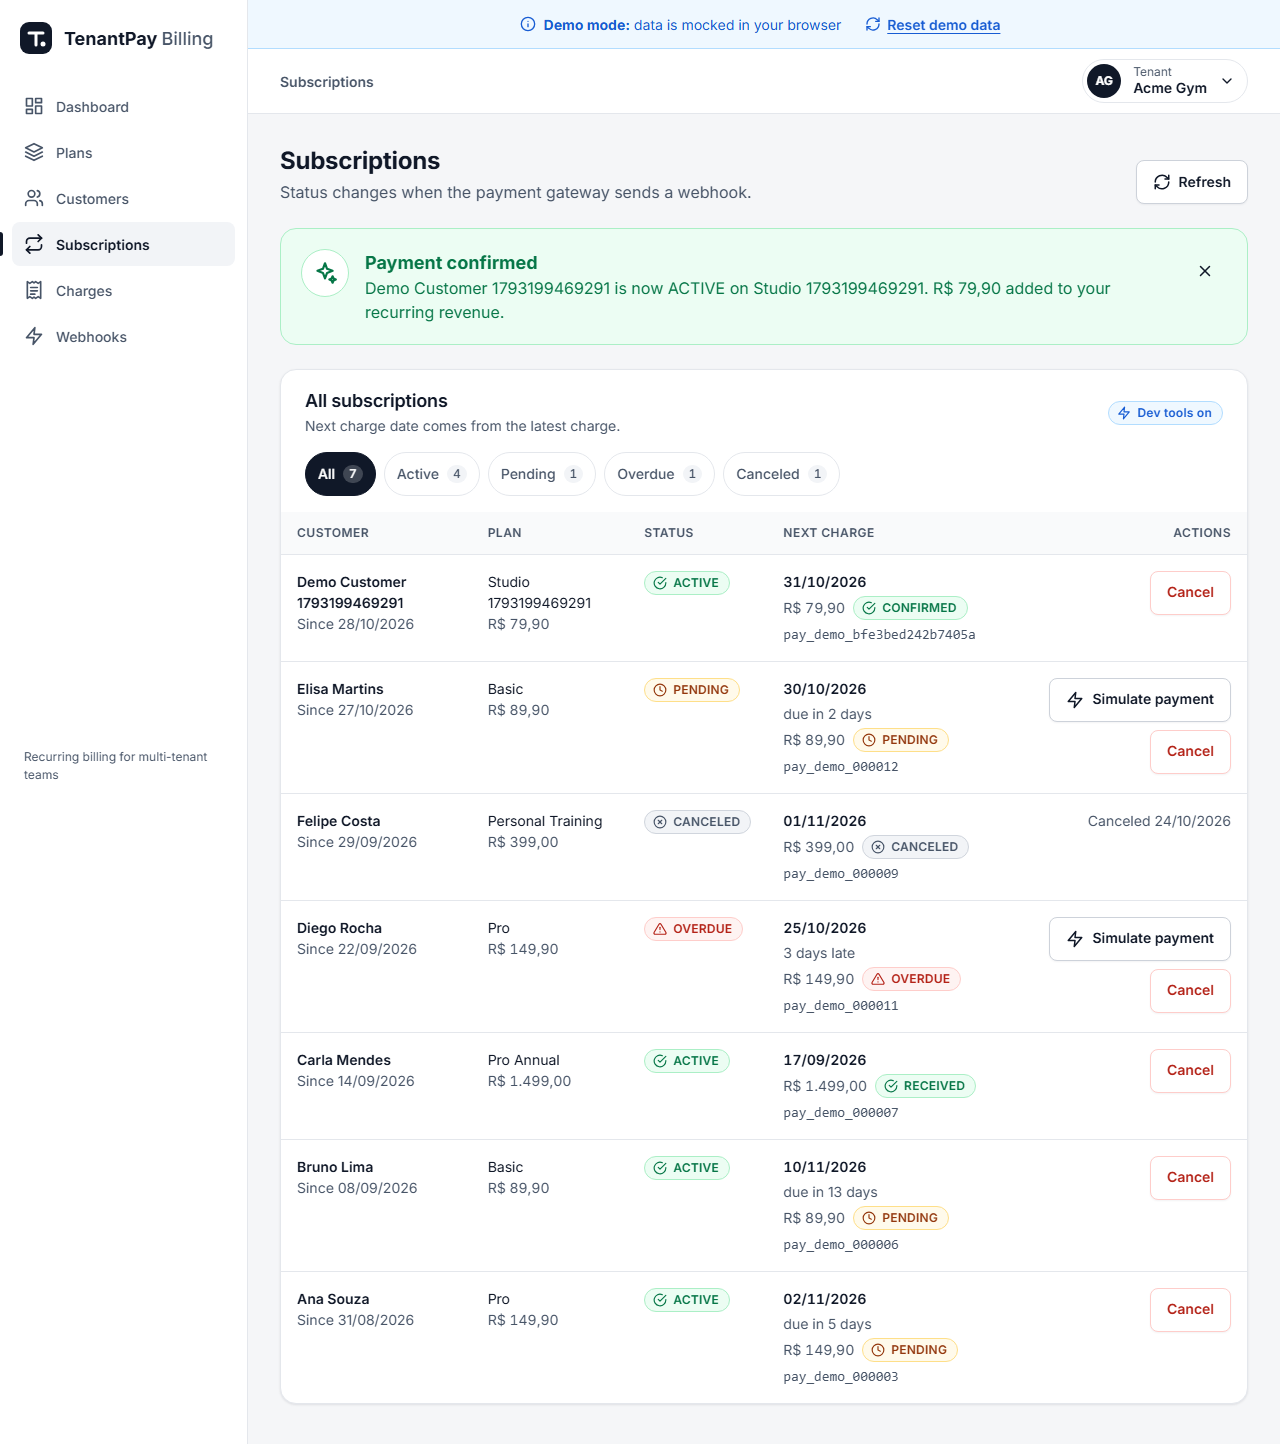
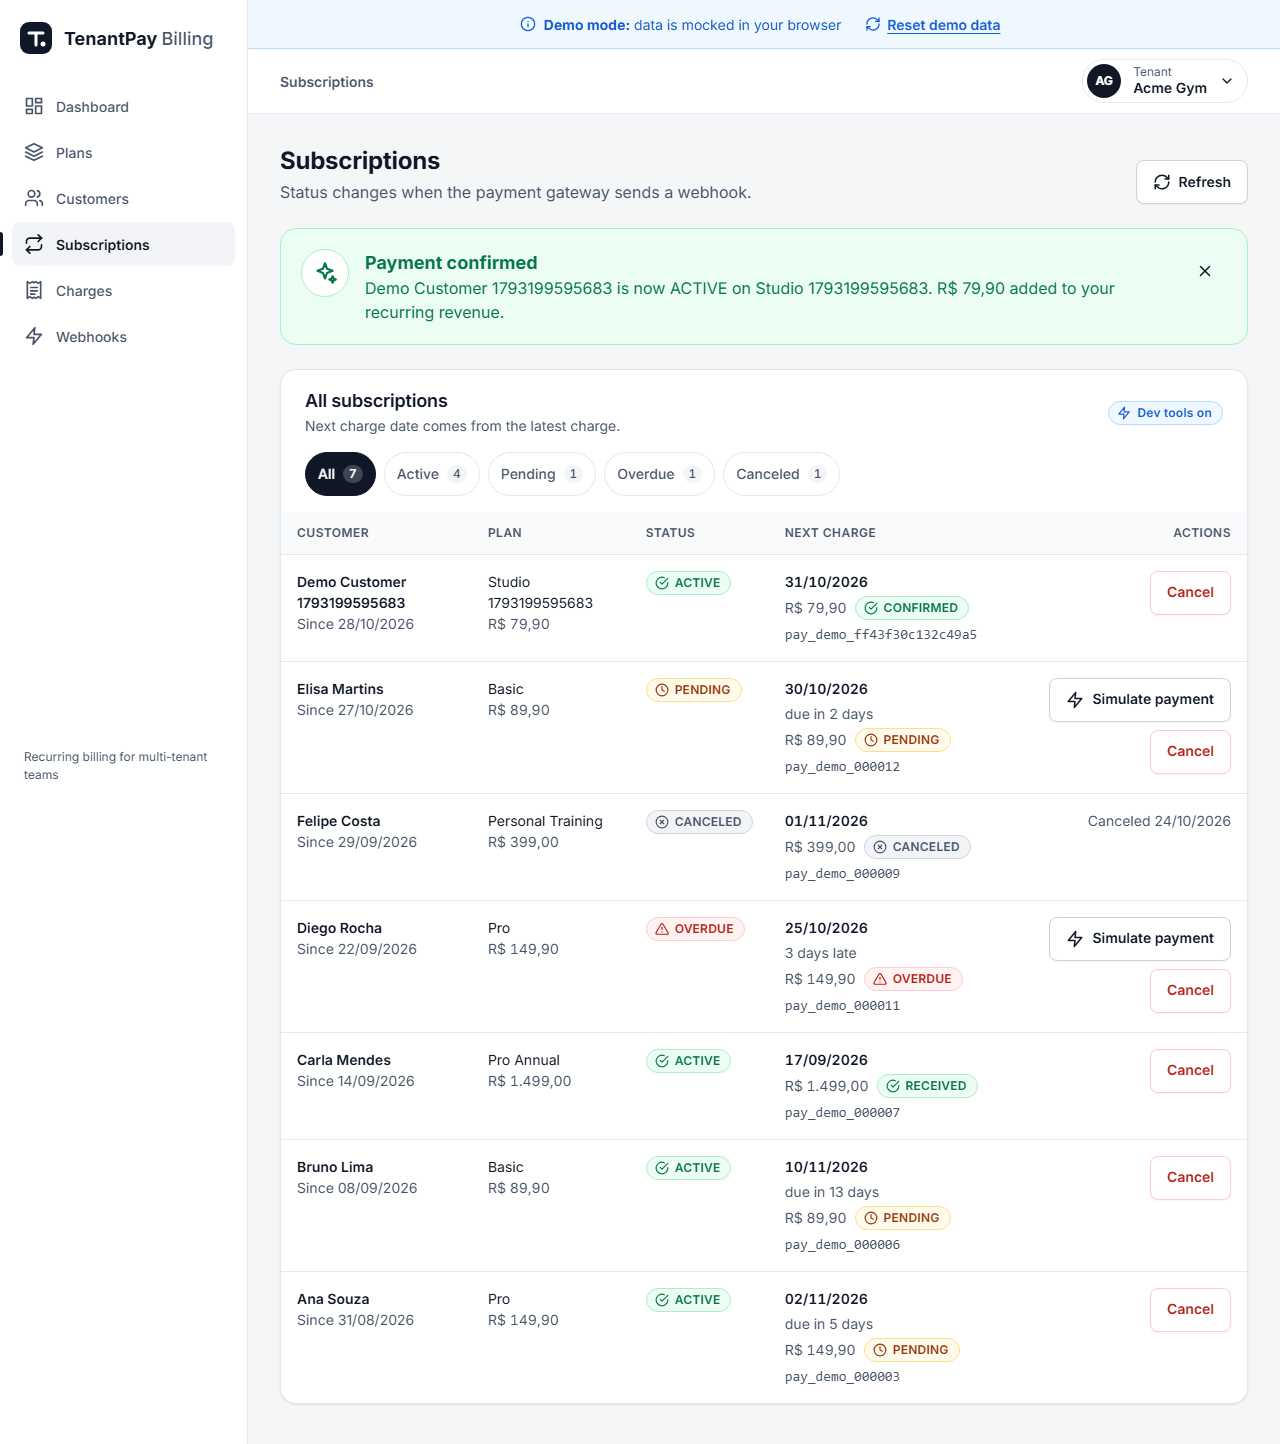
docs: add live demo link, UX principles section and demo mode guide

diff --git a/README.md b/README.md
@@ -6,6 +6,7 @@
 ![PostgreSQL](https://img.shields.io/badge/PostgreSQL-16-4169E1?logo=postgresql&logoColor=white)
 ![Vue](https://img.shields.io/badge/Vue-3-4FC08D?logo=vuedotjs&logoColor=white)
 [![License: MIT](https://img.shields.io/badge/License-MIT-yellow.svg)](LICENSE)
+[![Live demo](https://img.shields.io/badge/demo-live%20on%20Vercel-000000?logo=vercel&logoColor=white)](https://tenantpay-billing.vercel.app)
 
 A multi-tenant payments and subscriptions API built with **Java 21**, **Spring Boot 3** and **Clean Architecture**.
 Tenants sign up, define plans, register customers and subscribe them. Charges are issued through a payment gateway port
@@ -16,6 +17,8 @@ A small Vue 3 panel and a Playwright end-to-end suite exercise the whole flow, f
 
 > Portfolio project. It runs fully offline with the fake gateway: no payment provider account or API key is needed.
 
+**Live demo:** [tenantpay-billing.vercel.app](https://tenantpay-billing.vercel.app) runs the panel in demo mode, with a mock API that stores seeded data in your browser (click "Enter demo"). No backend and no real payments are involved.
+
 ## Table of contents
 
 - [Features](#features)
@@ -24,6 +27,7 @@ A small Vue 3 panel and a Playwright end-to-end suite exercise the whole flow, f
 - [Getting started](#getting-started)
 - [API examples](#api-examples)
 - [Screenshots](#screenshots)
+- [UX principles](#ux-principles)
 - [Project layout](#project-layout)
 - [Roadmap](#roadmap)
 - [Acknowledgements](#acknowledgements)
@@ -301,7 +305,14 @@ npx playwright install chromium
 npx playwright test
 ```
 
-The suite signs up a tenant, logs in, creates a plan, subscribes a customer, sends a `PAYMENT_CONFIRMED` webhook twice to prove idempotency and checks that the panel shows `ACTIVE`. Each step saves a screenshot in `docs/screenshots/`.
+The demo mode smoke test builds the panel with `VITE_DEMO_MODE=true`, serves it with `vite preview` and needs no backend. Point it at any deployment with `DEMO_BASE_URL`:
+
+```bash
+npm run test:demo                                                   # local demo build
+DEMO_BASE_URL=https://tenantpay-billing.vercel.app npm run test:demo  # live demo
+```
+
+The full flow suite signs up a tenant, logs in, creates a plan, subscribes a customer, sends a `PAYMENT_CONFIRMED` webhook twice to prove idempotency and checks that the panel shows `ACTIVE`. Each step saves a screenshot in `docs/screenshots/`.
 
 ## API examples
 
@@ -370,6 +381,28 @@ Captured automatically by the Playwright suite.
 | 6. Subscription active | ![Active](docs/screenshots/06-subscription-active.png) |
 | 7. Dashboard | ![Dashboard](docs/screenshots/07-dashboard.png) |
 | 8. Simulate payment button (dev only) | ![Simulate](docs/screenshots/08-simulate-button.png) |
+| 9. Demo mode (live on Vercel) | ![Demo](docs/screenshots/09-demo-mode.png) |
+
+## UX principles
+
+The panel is a light, card based billing dashboard: one accent color, a sidebar with six items, status pills that combine text, color and icon, and Inter as the type face. Design decisions follow well known [Laws of UX](https://lawsofux.com/); [docs/UX.md](docs/UX.md) maps each one to the component that applies it.
+
+| Law | Where it shows up |
+|---|---|
+| Fitts | Every interactive target is at least 44px high |
+| Hick, Occam, Pareto | Six nav items; subscribe and cancel use progressive disclosure |
+| Jakob | Logo top left, tenant menu top right, sidebar navigation |
+| Proximity, Uniform Connectedness | Cards group related data; labels sit right above their inputs |
+| Miller | Forms are chunked into short sections |
+| Doherty | Skeleton loaders and pressed/loading button states give feedback in under 400ms |
+| Von Restorff | The accent color is reserved for the primary call to action |
+| Peak-End | A celebration state appears when a subscription becomes active |
+| Zeigarnik, Goal-Gradient | Onboarding checklist: create plan, add customer, subscribe, first payment |
+| Tesler, Postel | BRL amounts are auto formatted; CPF/CNPJ is accepted with or without punctuation |
+
+### Demo mode
+
+`npm run build:demo` (or `VITE_DEMO_MODE=true`) swaps the HTTP client for an in-browser mock API that implements the same contract, persisted in `localStorage` and seeded with sample data. A banner states "Demo mode: data is mocked in your browser" and offers a reset. The regular build does not include the mock at all. `frontend/vercel.json` builds the demo with SPA rewrites, so the panel can be hosted without the API.
 
 ## Project layout
 
@@ -384,7 +417,7 @@ Captured automatically by the Playwright suite.
 ├── src/test/java          # unit, ArchUnit (*Test) and Testcontainers (*IT)
 ├── frontend/              # Vue 3 + Vite + TypeScript panel
 ├── e2e/                   # Playwright suite
-├── docs/                  # API contract and screenshots
+├── docs/                  # API contract, UX notes and screenshots
 ├── Dockerfile             # API image (multi-stage)
 └── docker-compose.yml     # postgres + api + frontend
 ```
